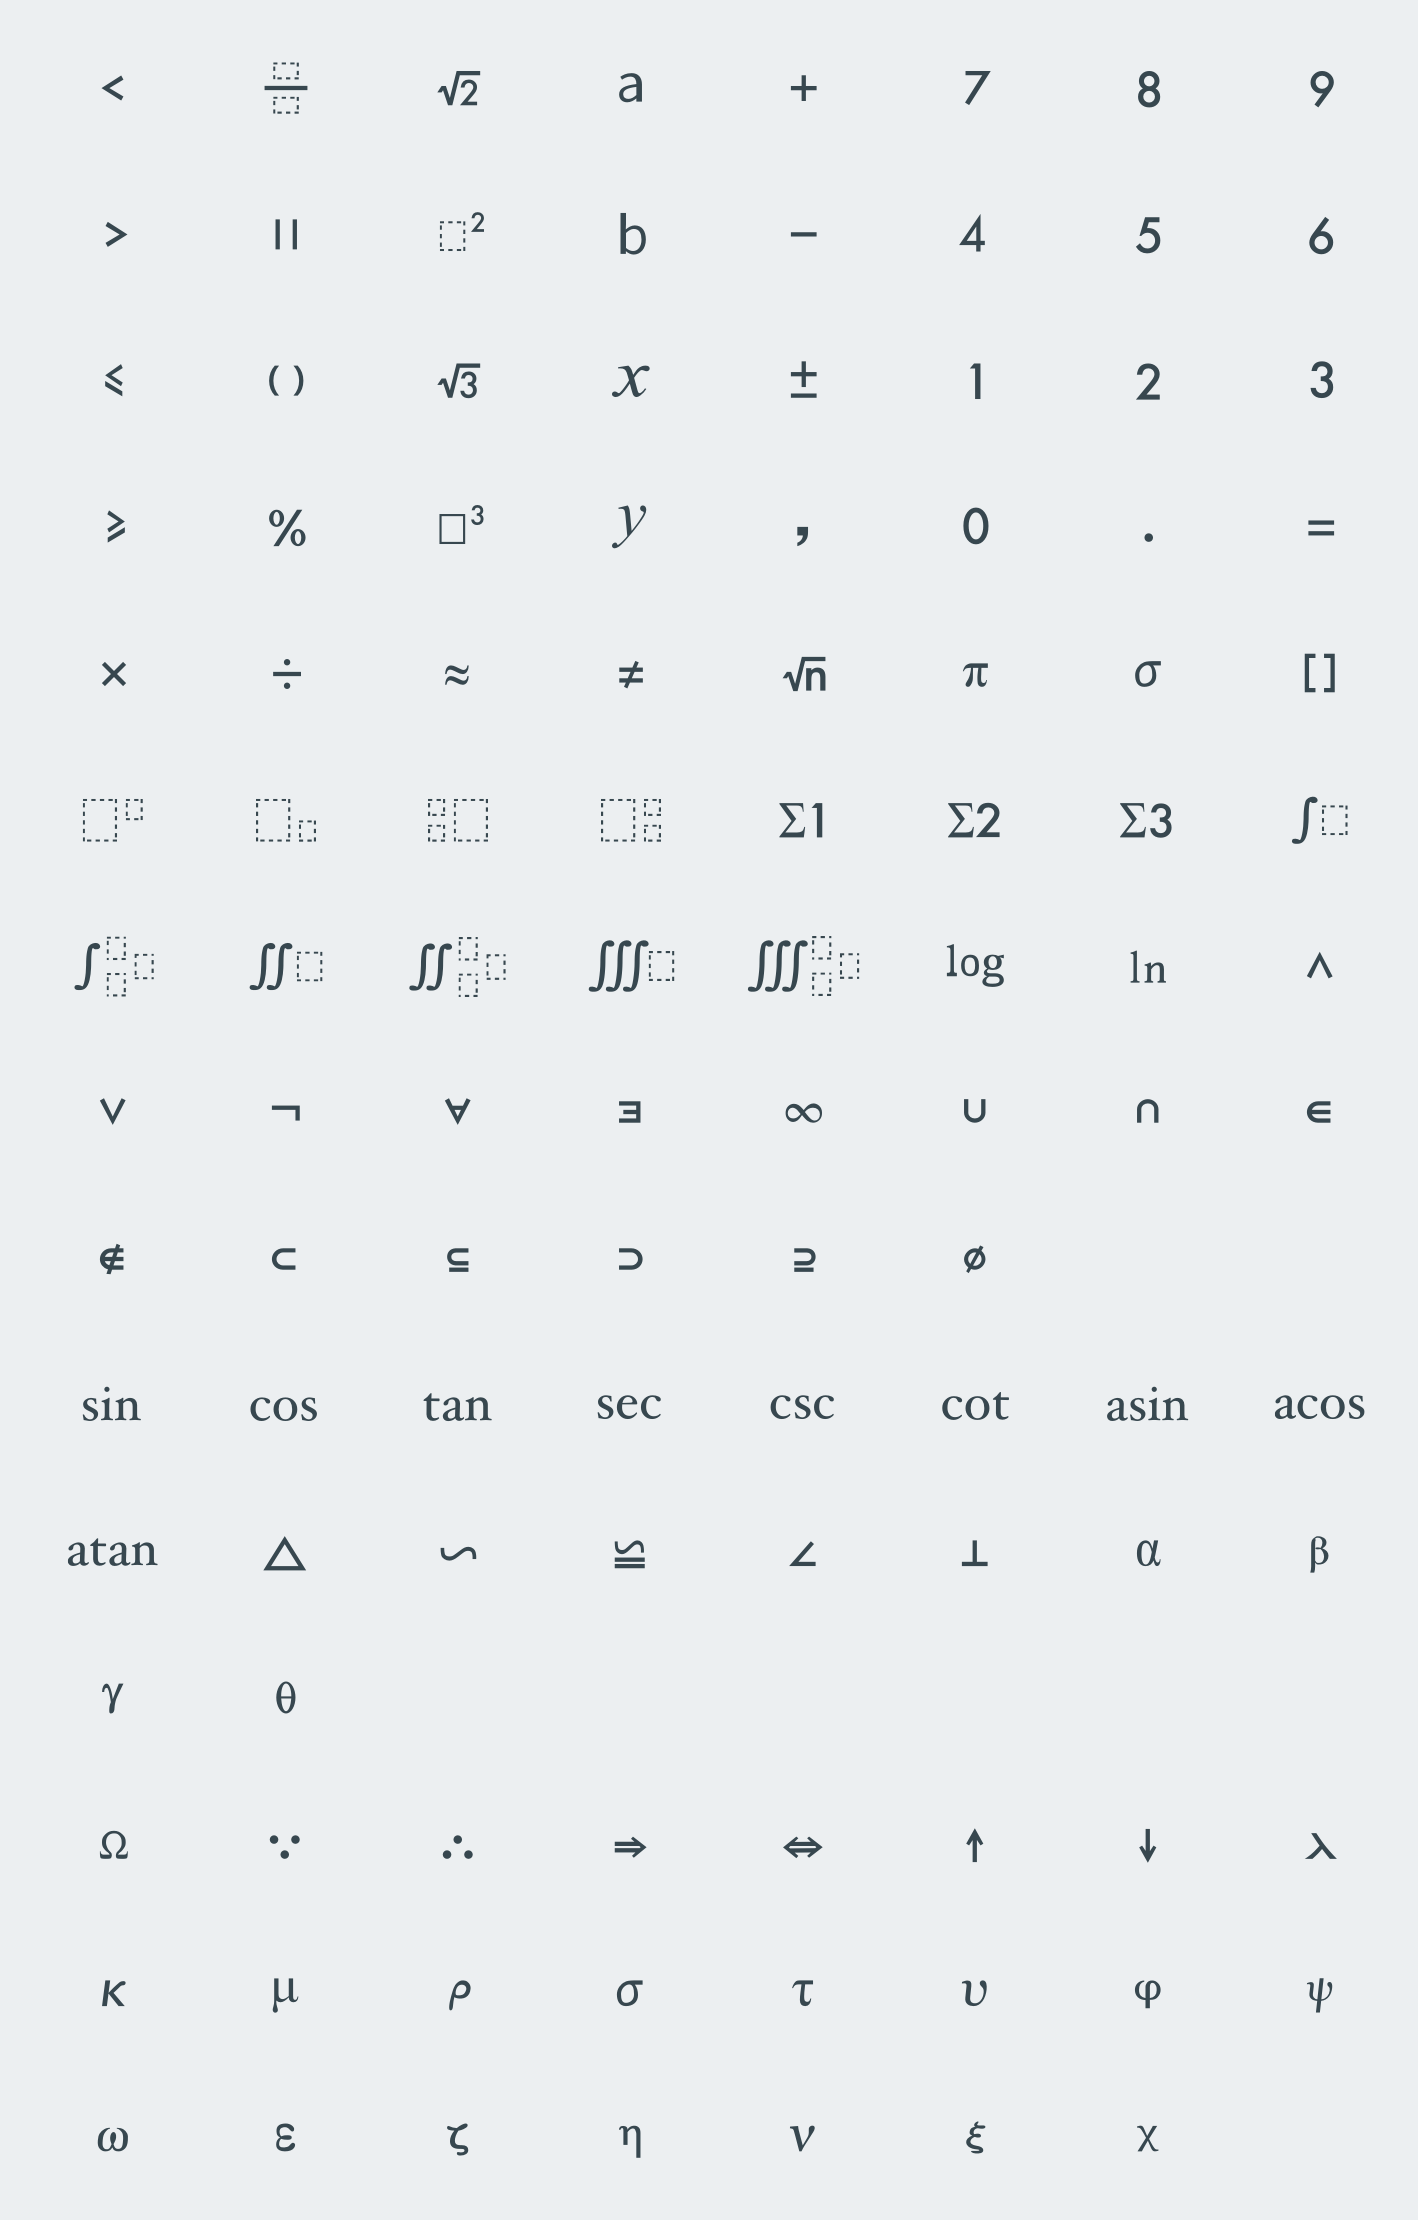
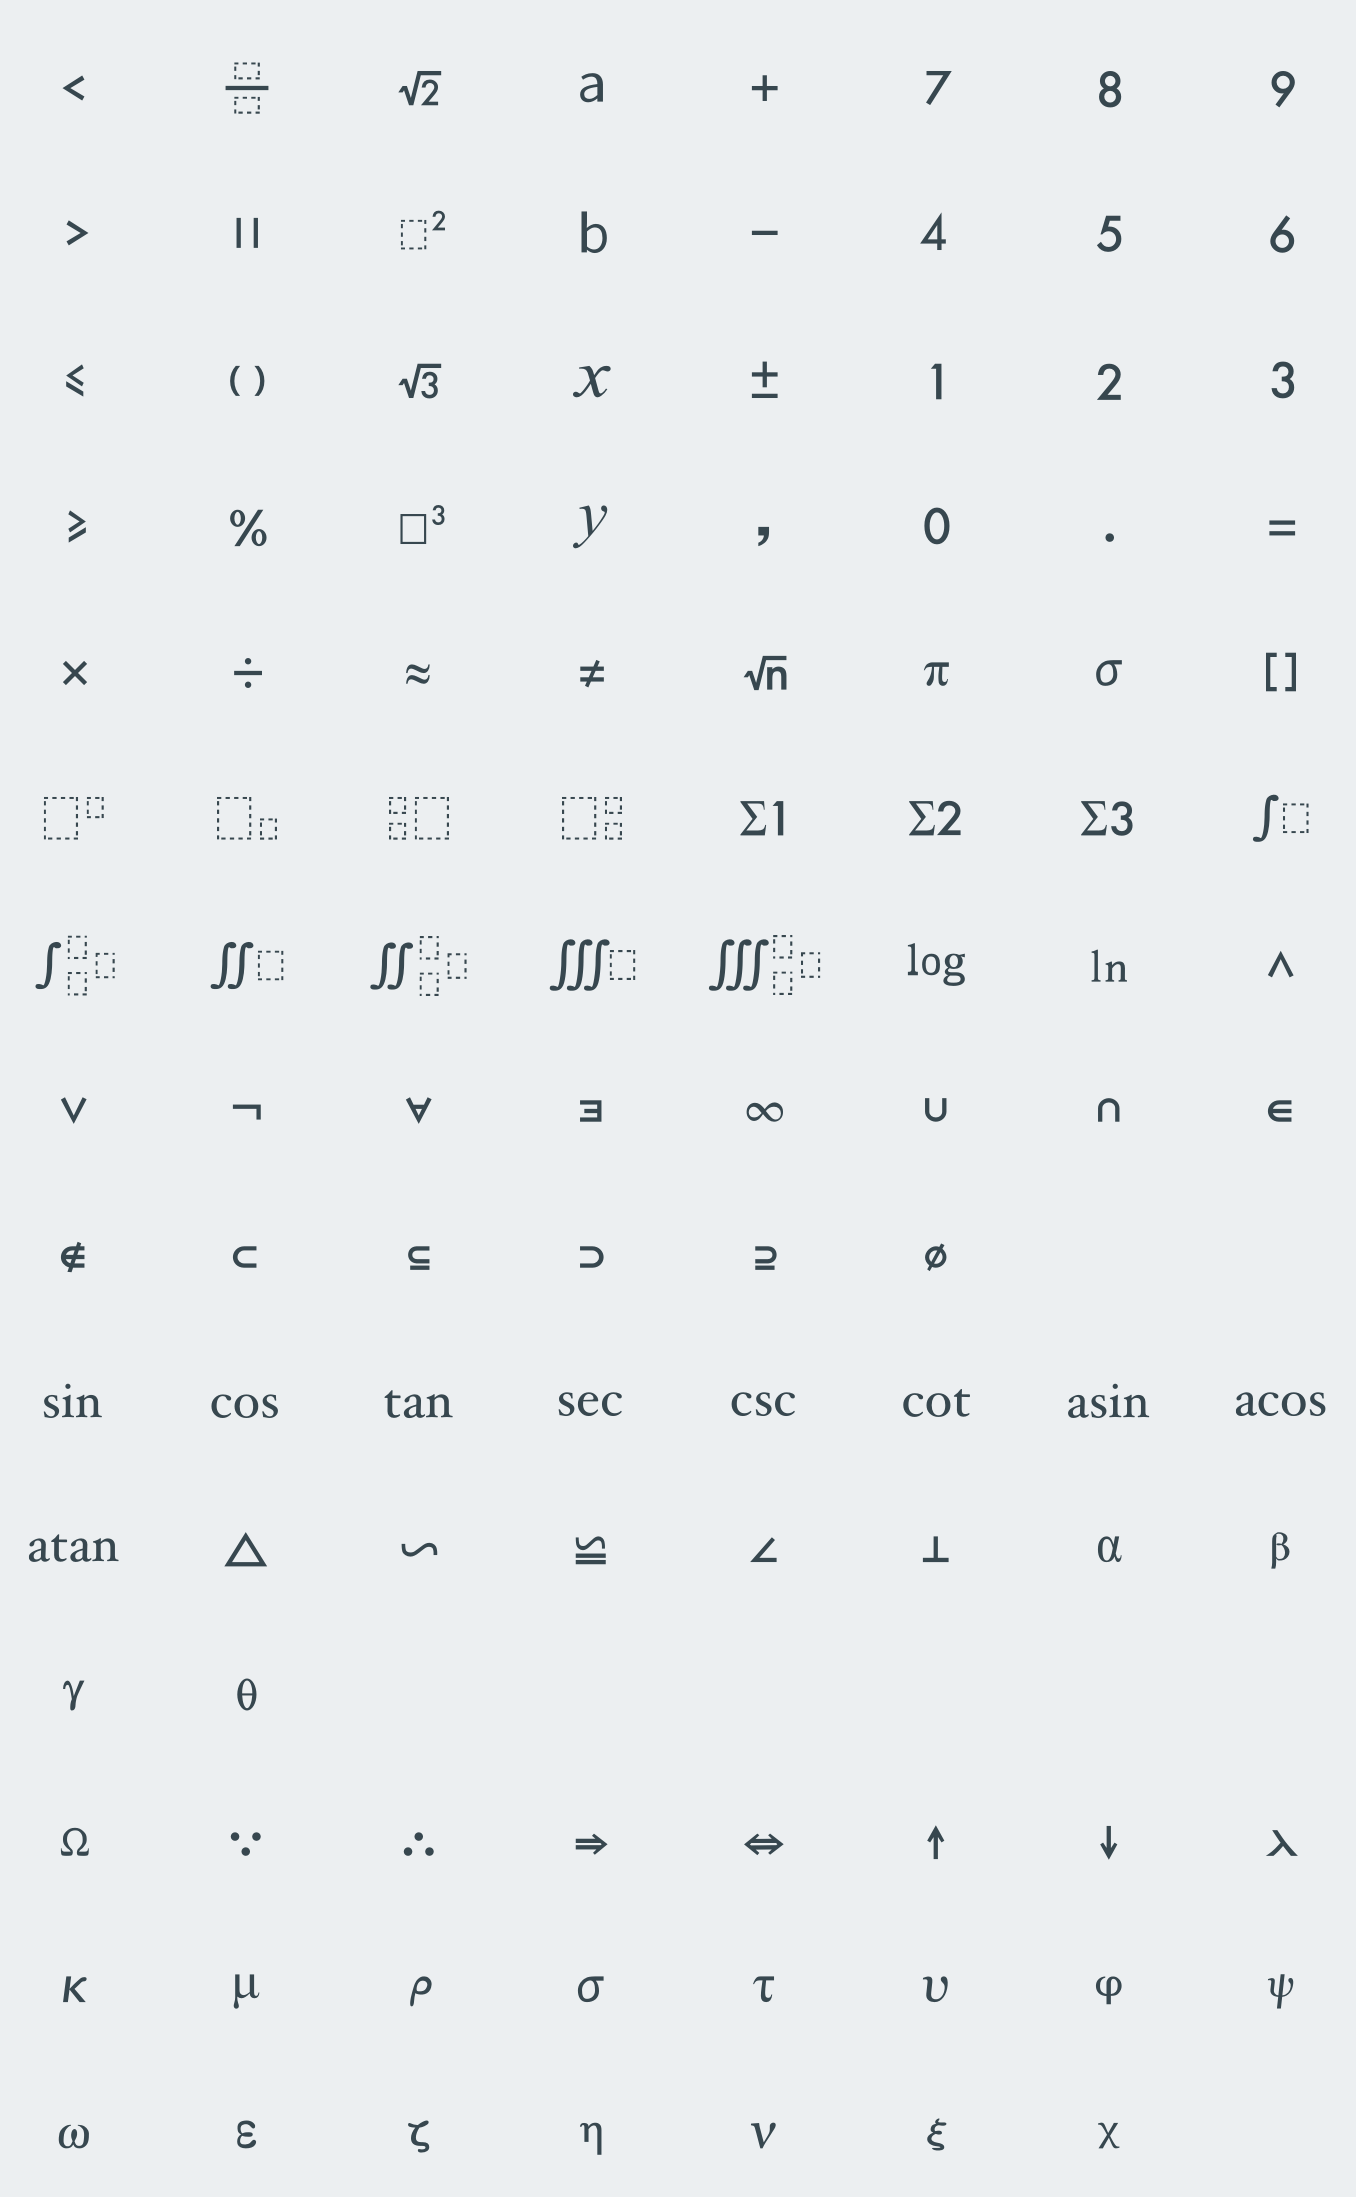
[feature][what]完成安卓端键位映射

diff --git a/src/ui/ui-impl/keyboard/panel/androidConst.js b/src/ui/ui-impl/keyboard/panel/androidConst.js
@@ -2,7 +2,7 @@
  * @Author: Demian
  * @Date: 2020-04-22 18:00:32
  * @LastEditor: Demian
- * @LastEditTime: 2020-04-27 15:23:10
+ * @LastEditTime: 2020-04-27 16:07:36
  */
 
 define(function (require) {
@@ -29,7 +29,7 @@ define(function (require) {
       '8',
       '9',
       '>',
-      '||',
+      '\\left|\\placeholder\\right|',
       '\\placeholder^2',
       'b',
       '-',
@@ -52,9 +52,15 @@ define(function (require) {
       '0',
       '.',
       '=',
+    ];
+
+    Constant[0].items = getIconContents(list, 'assets/images/android/keyboard.png');
+  })();
+  // 代数
+  (function () {
+    const list = [
       '\\times',
       '\\div',
-      '%0',
       '\\approx',
       '\\neq',
       '\\sqrt [\\placeholder] \\placeholder',
@@ -65,8 +71,6 @@ define(function (require) {
       '\\placeholder_\\placeholder',
       '{^\\placeholder_\\placeholder\\placeholder}',
       '\\placeholder^\\placeholder_\\placeholder',
-      '排',
-      '组',
       '\\sum\\placeholder',
       '\\sum_\\placeholder\\placeholder',
       '\\sum^\\placeholder_\\placeholder\\placeholder',
@@ -76,98 +80,87 @@ define(function (require) {
       '\\iint^\\placeholder_\\placeholder\\placeholder',
       '\\iiint\\placeholder',
       '\\iiint^\\placeholder_\\placeholder\\placeholder',
-      'log',
-      'ln',
-      '\\to',
-      '\\cup',
+      '\\log\\placeholder',
+      '\\ln\\placeholder',
+      '\\land',
+      '\\lor',
       '\\neg',
       '\\forall',
       '\\exists',
+      '\\infty',
+      '\\cup',
+      '\\cap',
+      '\\in',
+      '\\notin',
+      '\\subset',
+      '\\subseteq',
+      '\\supset',
+      '\\supseteq',
+      '\\varnothing',
     ];
 
-    Constant[0].items = getIconContents(list, 'assets/images/android/keyboard.png');
+    Constant[1].items = getIconContents(list, 'assets/images/android/keyboard.png');
   })();
-
-  // 希腊字符配置
+  // 几何
   (function () {
-    var greekList = [
-      {
-        title: '小写',
-        values: [
-          'alpha',
-          'beta',
-          'gamma',
-          'delta',
-          'epsilon',
-          'zeta',
-          'eta',
-          'theta',
-          'iota',
-          'kappa',
-          'lambda',
-          'mu',
-          'nu',
-          'xi',
-          'omicron',
-          'pi',
-          'rho',
-          'sigma',
-          'tau',
-          'upsilon',
-          'phi',
-          'chi',
-          'psi',
-          'omega',
-        ],
-      },
-      {
-        title: '大写',
-        values: [
-          'Alpha',
-          'Beta',
-          'Gamma',
-          'Delta',
-          'Epsilon',
-          'Zeta',
-          'Eta',
-          'Theta',
-          'Iota',
-          'Kappa',
-          'Lambda',
-          'Mu',
-          'Nu',
-          'Xi',
-          'Omicron',
-          'Pi',
-          'Rho',
-          'Sigma',
-          'Tau',
-          'Upsilon',
-          'Phi',
-          'Chi',
-          'Psi',
-          'Omega',
-        ],
-      },
-      {
-        title: '变体',
-        values: [
-          'digamma',
-          'varepsilon',
-          'varkappa',
-          'varphi',
-          'varpi',
-          'varrho',
-          'varsigma',
-          'vartheta',
-        ],
-      },
+    const list = [
+      '\\sin\\placeholder',
+      '\\cos\\placeholder',
+      '\\tan\\placeholder',
+      '\\sec\\placeholder',
+      '\\csc\\placeholder',
+      '\\cot\\placeholder',
+      '\\arcsin\\placeholder',
+      '\\arccos\\placeholder',
+      '\\arctan\\placeholder',
+      '\\triangle',
+      '\\sim',
+      '\\cong',
+      '\\angle',
+      '\\bot',
+      '\\alpha',
+      '\\beta',
+      '\\gamma',
+      '\\theta',
     ];
 
-    Constant[1].items = getIconContents(
-      greekList[0].values,
-      'assets/images/android/keyboard.png'
-    );
+    Constant[2].items = getIconContents(list, 'assets/images/android/keyboard.png');
+  })();
+  // 单位
+  (function () {
+    const list = [];
+
+    Constant[3].items = getIconContents(list, 'assets/images/android/keyboard.png');
+  })();
+  // 其他
+  (function () {
+    const list = [
+      '\\Omega',
+      '\\because',
+      '\\therefore',
+      '\\Longrightarrow',
+      '\\Leftrightarrow',
+      '\\uparrow',
+      '\\downarrow',
+      '\\lambda',
+      '\\kappa',
+      '\\mu',
+      '\\rho',
+      '\\sigma',
+      '\\tau',
+      '\\upsilon',
+      '\\varphi',
+      '\\Psi',
+      '\\omega',
+      '\\varepsilon',
+      '\\zeta',
+      '\\eta',
+      '\\nu',
+      '\\xi',
+      '\\chi',
+    ];
+
+    Constant[4].items = getIconContents(list, 'assets/images/android/keyboard.png');
   })();
 
   function getIconContents(keySet, imgSrc) {
@@ -175,7 +168,7 @@ define(function (require) {
 
     kity.Utils.each(keySet, function (key) {
       const point = CHAR_POSITION[key] || { x: 0, y: 0 };
-      const pos = { x: point.x * 148, y: -point.y * 122 };
+      const pos = { x: point.x * 172, y: point.y * 146 + 26};
       result.push({
         key: key,
         img: imgSrc,

diff --git a/index.html b/index.html
@@ -39,8 +39,8 @@
         }
 
         if (device && device[1] === 'android') {
-          $('#kfEditorContainer').css('transform', `scale(${window.innerWidth / 1920})`);
-          // $('#kfEditorContainer').css('transform-origin', 'top left');
+          $('#kfEditorContainer').css('transform-origin', 'top left');
+          $('#kfEditorContainer').css('transform', `scale(${(window.innerWidth / 1920).toFixed(3)})`);
         }
         var factory = kf.EditorFactory.create($('#kfEditorContainer')[0], {
           render: {

diff --git a/assets/styles/theme/android.less b/assets/styles/theme/android.less
@@ -11,6 +11,7 @@
     width: 100%;
     height: 160px;
     float: left;
+    padding: 40px;
     .kf-editor-header-container {
       display: none;
     }
@@ -20,7 +21,7 @@
       background: #f8f8f8;
       border-radius: 54px;
       float: left;
-      margin: 40px;
+      // margin: 40px;
     }
     .kf-editor-ok {
       height: 30px;

diff --git a/assets/styles/page.less b/assets/styles/page.less
@@ -9,4 +9,5 @@ html, body {
 
 body {
     height: auto;
+    overflow: hidden;
 }
